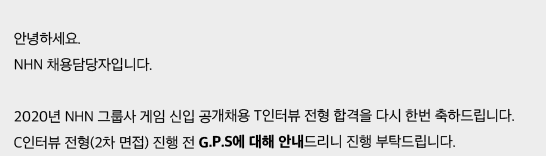
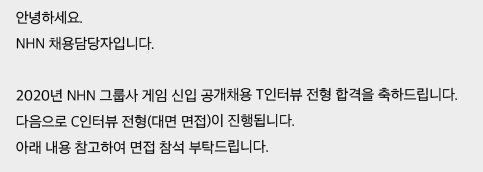
update : #취업 , 대면 인터뷰로 진행된 것을 추가

diff --git a/_posts/Recruit_Story/2020-08-20-NHN-3.md b/_posts/Recruit_Story/2020-08-20-NHN-3.md
@@ -19,7 +19,9 @@ photos:
 ---
 
 ## 면접 준비
-> 막막함 그자체
+> `대면면접`!! 드디어 `NHN` 사옥 내부를 들어가볼 수 있게 되었다.
+
+![image](/post_images/NHN-test-4.png)
 
 * `기술 면접이나`, `코딩 테스트`는 혼자서 어느정도 준비가 가능하다고 생각한다.
     * 왜냐하면 나올것이 어느정도 한정되어 있고, 그 한정된 범위를 준비하면 되기 때문이다.
